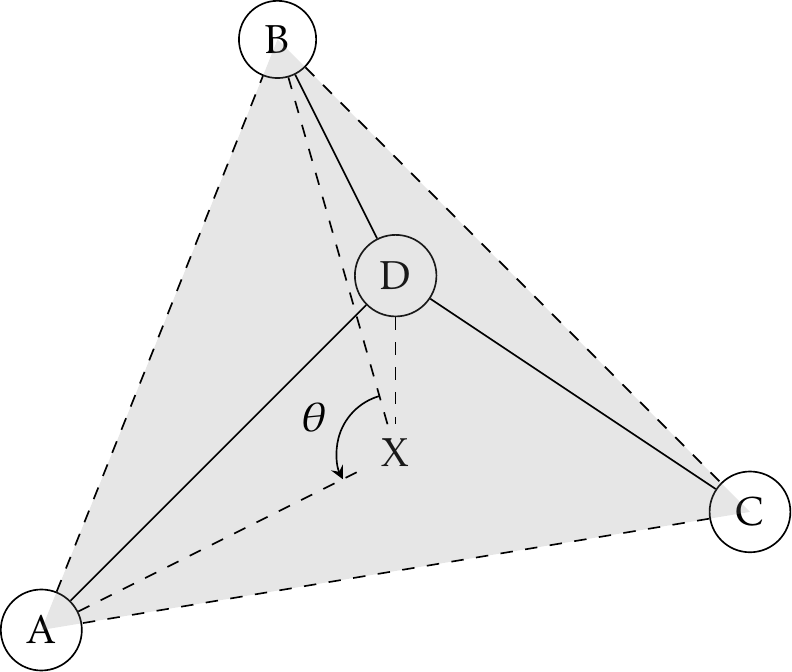
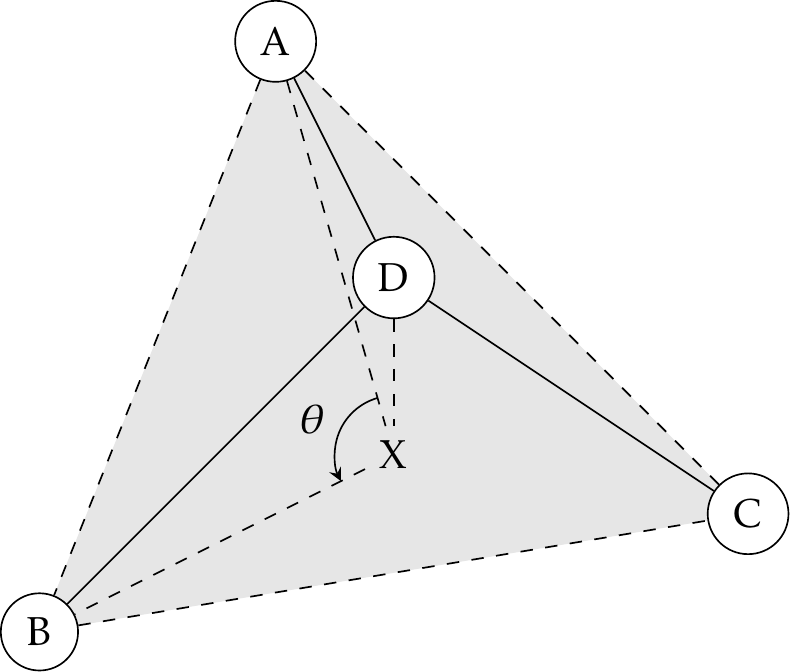
re-drew the trigonal center

diff --git a/doc/manual/m/fig/anglep.tex b/doc/manual/m/fig/anglep.tex
@@ -1,17 +1,23 @@
 \input{begin}
 
-\node[draw=none]   (X) at (0,-1.5) {X};
-\node[circle,draw] (D) at (0,0)    {D};
-\node[circle,draw] (A) at (-3,-3)  {A};
-\node[circle,draw] (B) at (-1,2)   {B};
-\node[circle,draw] (C) at (3,-2)   {C};
-\fill[fill=gray,fill opacity=0.2] (A.center) -- (B.center) -- (C.center);
+\coordinate (cX) at (0,-1.5);
+\coordinate (cD) at (0,0);
+\coordinate (cA) at (-1,2);
+\coordinate (cB) at (-3,-3);
+\coordinate (cC) at (3,-2);
+
+\fill[fill=gray,fill opacity=0.2] (cA) -- (cB) -- (cC);
+\node[draw=none]                             (X) at (cX) {X};
+\node[circle,draw,fill=white,fill opacity=1] (D) at (cD) {D};
+\node[circle,draw,fill=white,fill opacity=1] (A) at (cA) {A};
+\node[circle,draw,fill=white,fill opacity=1] (B) at (cB) {B};
+\node[circle,draw,fill=white,fill opacity=1] (C) at (cC) {C};
 
 \draw (A) -- (D) -- (B);
 \draw (C) -- (D);
 \draw[dashed] (D) -- (X);
 \draw[dashed] (A) -- (X) -- (B);
 \draw[dashed] (A) -- (B) -- (C) -- (A);
-\pic[draw,->,>=stealth,"$\theta$",angle eccentricity=1.5] {angle=B--X--A};
+\pic[draw,->,>=stealth,"$\theta$",angle eccentricity=1.5] {angle=A--X--B};
 
 \input{end}

diff --git a/doc/manual/m/key/potent.rst b/doc/manual/m/key/potent.rst
@@ -392,3 +392,48 @@ An example is as follows:
 .. seealso::
 
    :ref:`label-improp`
+
+Improper Torsion
+----------------
+
+**IMPTORTERM [NONE / ONLY]**
+
+.. index:: IMPTORTERM
+
+This keyword controls use of the AMBER-style improper torsional angle potential
+energy term.
+In the absence of a modifying option, this keyword turns on use of the potential.
+The *NONE* option turns off use of this potential energy term.
+The *ONLY* option turns off all potential energy terms except for this one.
+
+**IMPTORUNIT [real]**
+
+.. index:: IMPTORUNIT
+
+Sets the scale factor needed to convert the energy value computed by the
+AMBER-style improper torsional angle potential into units of kcal/mol.
+The correct value is force field dependent and typically provided in the header
+of the master force field parameter file.
+The default value of 1.0 is used, if the *IMPTORSUNIT* keyword is not given in
+the force field parameter file or the keyfile.
+
+**IMPTORS [4 integers & up to 3 real/real/integer triples]**
+
+.. index:: IMPTORS
+
+This keyword provides the values for a single AMBER-style improper torsional
+angle parameter.
+The first four integer modifiers give the atom class numbers for the atoms
+involved in the improper torsional angle to be defined.
+By convention, the third atom class of the four is the trigonal atom on which
+the improper torsion is centered.
+The torsional angle computed is literally that defined by the four atom classes
+in the order specified by the keyword.
+Each of the remaining triples of real/real/integer modifiers give the
+half-amplitude, phase offset in degrees and periodicity of a particular
+improper torsional term, respectively.
+Periodicities through 3-fold are allowed for improper torsional parameters.
+
+.. seealso::
+
+   :ref:`label-imptor`

diff --git a/doc/manual/m/feat/potent.rst b/doc/manual/m/feat/potent.rst
@@ -141,3 +141,8 @@ The harmonic functional form implemented in Tinker is
 
 There is no coefficient 1/2 before the force coefficient,
 which may be different in other software packages.
+
+.. _label-imptor:
+
+Improper Torsion
+----------------

diff --git a/doc/manual/m/key/uncategorized.rst b/doc/manual/m/key/uncategorized.rst
@@ -581,18 +581,6 @@ Uncategorized Keywords
 
 .. index:: IEL-SCF
 
-**IMPTORS**
-
-.. index:: IMPTORS
-
-**IMPTORTERM**
-
-.. index:: IMPTORTERM
-
-**IMPTORUNIT**
-
-.. index:: IMPTORUNIT
-
 **INACTIVE**
 
 .. index:: INACTIVE
